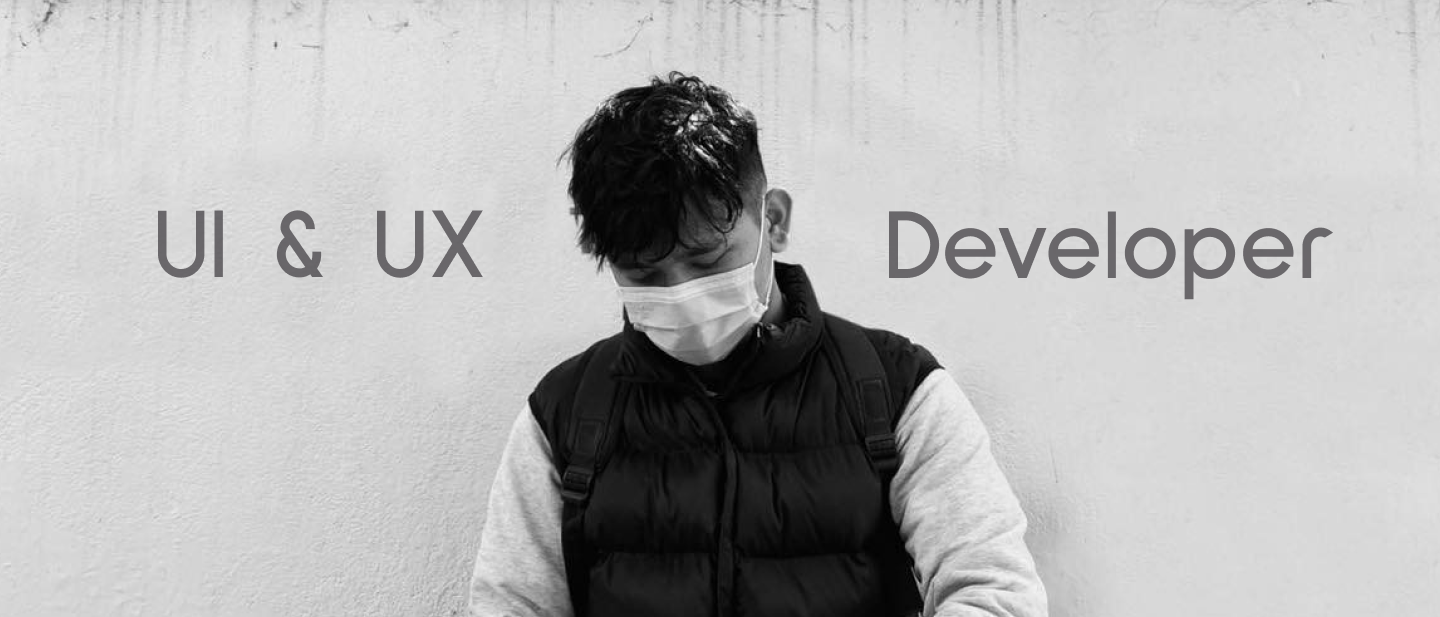
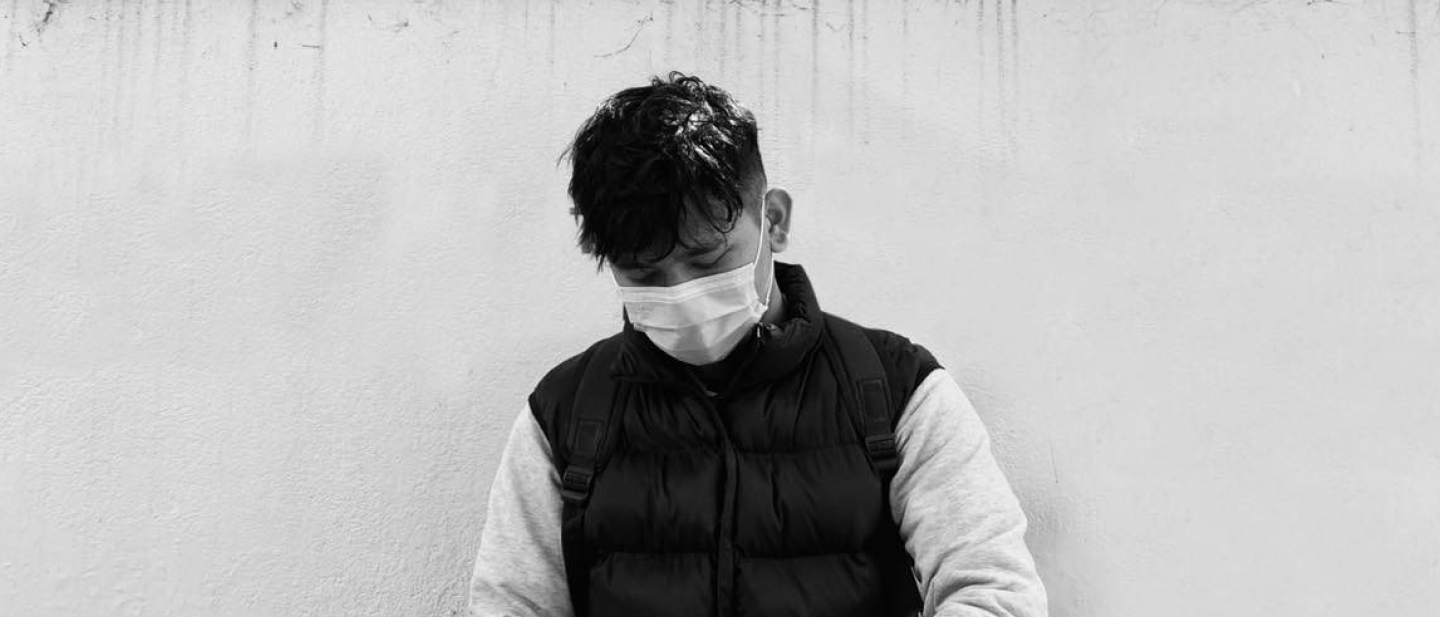
Portfolio

diff --git a/index.html b/index.html
@@ -34,19 +34,55 @@
         </div>
 
         <div class="section">
-            <!-- <div class="uiux">
+            <div class="uiux">
                 UI & UX
-            </div>    -->
+            </div>   
             
-            <!-- <div class="Developer">Developer</div> -->
+            <div class="Developer">
+                Developer
+            </div>
+        
         </div>
 
+        <div class="footer">
 
+            <div class="icon" id="">
+                <svg class="i" viewBox="0 0 46 44" fill="none" xmlns="http://www.w3.org/2000/svg" >
+                    <mask id="path-1-inside-1_11_8" fill="white">
+                    <path d="M22.9266 10C26.2433 10 29.4241 11.2643 31.7693 13.5147C34.1145 15.7652 35.432 18.8174 35.432 22C35.432 26.44 32.9101 30.32 29.1793 32.4V36C29.1793 36.5304 28.9597 37.0391 28.5689 37.4142C28.178 37.7893 27.6479 38 27.0951 38H18.7581C18.2054 38 17.6752 37.7893 17.2844 37.4142C16.8935 37.0391 16.6739 36.5304 16.6739 36V32.4C12.9431 30.32 10.4212 26.44 10.4212 22C10.4212 18.8174 11.7387 15.7652 14.0839 13.5147C16.4292 11.2643 19.61 10 22.9266 10ZM27.0951 40V42C27.0951 42.5304 26.8755 43.0391 26.4846 43.4142C26.0938 43.7893 25.5636 44 25.0109 44H20.8424C20.2896 44 19.7595 43.7893 19.3686 43.4142C18.9777 43.0391 18.7581 42.5304 18.7581 42V40H27.0951ZM39.6005 20H45.8532V24H39.6005V20ZM0 20H6.25271V24H0V20ZM25.0109 0V6H20.8424V0H25.0109ZM8.17021 5L12.6096 9.28L9.65002 12.1L5.21059 7.86L8.17021 5ZM33.2436 9.26L37.6622 5L40.6426 7.86L36.2032 12.1L33.2436 9.26Z"/>
+                    </mask>
+                    <path d="M22.9266 10C26.2433 10 29.4241 11.2643 31.7693 13.5147C34.1145 15.7652 35.432 18.8174 35.432 22C35.432 26.44 32.9101 30.32 29.1793 32.4V36C29.1793 36.5304 28.9597 37.0391 28.5689 37.4142C28.178 37.7893 27.6479 38 27.0951 38H18.7581C18.2054 38 17.6752 37.7893 17.2844 37.4142C16.8935 37.0391 16.6739 36.5304 16.6739 36V32.4C12.9431 30.32 10.4212 26.44 10.4212 22C10.4212 18.8174 11.7387 15.7652 14.0839 13.5147C16.4292 11.2643 19.61 10 22.9266 10ZM27.0951 40V42C27.0951 42.5304 26.8755 43.0391 26.4846 43.4142C26.0938 43.7893 25.5636 44 25.0109 44H20.8424C20.2896 44 19.7595 43.7893 19.3686 43.4142C18.9777 43.0391 18.7581 42.5304 18.7581 42V40H27.0951ZM39.6005 20H45.8532V24H39.6005V20ZM0 20H6.25271V24H0V20ZM25.0109 0V6H20.8424V0H25.0109ZM8.17021 5L12.6096 9.28L9.65002 12.1L5.21059 7.86L8.17021 5ZM33.2436 9.26L37.6622 5L40.6426 7.86L36.2032 12.1L33.2436 9.26Z" fill="white"/>
+                    <path d="M29.1793 32.4L28.6924 31.5266L28.1793 31.8126V32.4H29.1793ZM16.6739 32.4H17.6739V31.8126L17.1609 31.5266L16.6739 32.4ZM10.4212 22H9.42119H10.4212ZM27.0951 40H28.0951V39H27.0951V40ZM18.7581 40V39H17.7581V40H18.7581ZM39.6005 20V19H38.6005V20H39.6005ZM45.8532 20H46.8532V19H45.8532V20ZM45.8532 24V25H46.8532V24H45.8532ZM39.6005 24H38.6005V25H39.6005V24ZM0 20V19H-1V20H0ZM6.25271 20H7.25271V19H6.25271V20ZM6.25271 24V25H7.25271V24H6.25271ZM0 24H-1V25H0V24ZM25.0109 0H26.0109V-1H25.0109V0ZM25.0109 6V7H26.0109V6H25.0109ZM20.8424 6H19.8424V7H20.8424V6ZM20.8424 0V-1H19.8424V0H20.8424ZM8.17021 5L8.86427 4.28008L8.1694 3.61017L7.47531 4.28089L8.17021 5ZM12.6096 9.28L13.2995 10.004L14.0548 9.28424L13.3037 8.56008L12.6096 9.28ZM9.65002 12.1L8.95934 12.8232L9.64921 13.482L10.3398 12.824L9.65002 12.1ZM5.21059 7.86L4.51569 7.14089L3.76717 7.86423L4.51992 8.58316L5.21059 7.86ZM33.2436 9.26L32.5495 8.54009L31.8011 9.2617L32.5512 9.98154L33.2436 9.26ZM37.6622 5L38.3546 4.27846L37.6605 3.61251L36.9681 4.28009L37.6622 5ZM40.6426 7.86L41.3333 8.58316L42.0887 7.8617L41.335 7.13846L40.6426 7.86ZM36.2032 12.1L35.5108 12.8215L36.2016 13.4844L36.8939 12.8232L36.2032 12.1ZM22.9266 11C25.9911 11 28.9221 12.1685 31.0769 14.2363L32.4617 12.7932C29.926 10.36 26.4955 9 22.9266 9V11ZM31.0769 14.2363C33.2303 16.3026 34.432 19.0962 34.432 22H36.432C36.432 18.5386 34.9987 15.2277 32.4617 12.7932L31.0769 14.2363ZM34.432 22C34.432 26.0471 32.1338 29.6079 28.6924 31.5266L29.6663 33.2734C33.6865 31.0321 36.432 26.8329 36.432 22H34.432ZM28.1793 32.4V36H30.1793V32.4H28.1793ZM28.1793 36C28.1793 36.2516 28.0756 36.5017 27.8765 36.6927L29.2612 38.1358C29.8439 37.5766 30.1793 36.8093 30.1793 36H28.1793ZM27.8765 36.6927C27.676 36.885 27.3957 37 27.0951 37V39C27.9001 39 28.68 38.6935 29.2612 38.1358L27.8765 36.6927ZM27.0951 37H18.7581V39H27.0951V37ZM18.7581 37C18.4576 37 18.1772 36.885 17.9767 36.6927L16.592 38.1358C17.1733 38.6935 17.9532 39 18.7581 39V37ZM17.9767 36.6927C17.7777 36.5017 17.6739 36.2516 17.6739 36H15.6739C15.6739 36.8093 16.0093 37.5766 16.592 38.1358L17.9767 36.6927ZM17.6739 36V32.4H15.6739V36H17.6739ZM17.1609 31.5266C13.7195 29.6079 11.4212 26.0471 11.4212 22H9.42119C9.42119 26.8329 12.1668 31.0321 16.1869 33.2734L17.1609 31.5266ZM11.4212 22C11.4212 19.0962 12.6229 16.3026 14.7763 14.2363L13.3916 12.7932C10.8545 15.2277 9.42119 18.5386 9.42119 22H11.4212ZM14.7763 14.2363C16.9311 12.1685 19.8622 11 22.9266 11V9C19.3578 9 15.9272 10.36 13.3916 12.7932L14.7763 14.2363ZM26.0951 40V42H28.0951V40H26.0951ZM26.0951 42C26.0951 42.2516 25.9913 42.5017 25.7923 42.6927L27.177 44.1358C27.7597 43.5766 28.0951 42.8093 28.0951 42H26.0951ZM25.7923 42.6927C25.5918 42.885 25.3114 43 25.0109 43V45C25.8158 45 26.5957 44.6935 27.177 44.1358L25.7923 42.6927ZM25.0109 43H20.8424V45H25.0109V43ZM20.8424 43C20.5418 43 20.2614 42.885 20.061 42.6927L18.6762 44.1358C19.2575 44.6935 20.0374 45 20.8424 45V43ZM20.061 42.6927C19.8619 42.5017 19.7581 42.2516 19.7581 42H17.7581C17.7581 42.8093 18.0935 43.5766 18.6762 44.1358L20.061 42.6927ZM19.7581 42V40H17.7581V42H19.7581ZM18.7581 41H27.0951V39H18.7581V41ZM39.6005 21H45.8532V19H39.6005V21ZM44.8532 20V24H46.8532V20H44.8532ZM45.8532 23H39.6005V25H45.8532V23ZM40.6005 24V20H38.6005V24H40.6005ZM0 21H6.25271V19H0V21ZM5.25271 20V24H7.25271V20H5.25271ZM6.25271 23H0V25H6.25271V23ZM1 24V20H-1V24H1ZM24.0109 0V6H26.0109V0H24.0109ZM25.0109 5H20.8424V7H25.0109V5ZM21.8424 6V0H19.8424V6H21.8424ZM20.8424 1H25.0109V-1H20.8424V1ZM7.47615 5.71992L11.9156 9.99992L13.3037 8.56008L8.86427 4.28008L7.47615 5.71992ZM11.9198 8.55602L8.9602 11.376L10.3398 12.824L13.2995 10.004L11.9198 8.55602ZM10.3407 11.3768L5.90127 7.13684L4.51992 8.58316L8.95934 12.8232L10.3407 11.3768ZM5.9055 8.57911L8.86511 5.71911L7.47531 4.28089L4.51569 7.14089L5.9055 8.57911ZM33.9377 9.97991L38.3562 5.71991L36.9681 4.28009L32.5495 8.54009L33.9377 9.97991ZM36.9698 5.72154L39.9503 8.58154L41.335 7.13846L38.3546 4.27846L36.9698 5.72154ZM39.952 7.13684L35.5125 11.3768L36.8939 12.8232L41.3333 8.58316L39.952 7.13684ZM36.8956 11.3785L33.936 8.53846L32.5512 9.98154L35.5108 12.8215L36.8956 11.3785Z" fill="black" mask="url(#path-1-inside-1_11_8)"/>
+                </svg>
+                <div class="text">
+                    CREATIVE DEVELOPMENT
+                </div>
+            </div>
+                
+            <div class="icon" id="laptop">
+                <svg class="i" viewBox="0 0 51 30" fill="none" xmlns="http://www.w3.org/2000/svg">
+                    <mask id="path-1-inside-1_11_6" fill="white">
+                    <path d="M8.81632 3.75H42.1641V22.5H8.81632M42.1641 26.25C43.2697 26.25 44.3299 25.8549 45.1117 25.1516C45.8934 24.4484 46.3326 23.4946 46.3326 22.5V3.75C46.3326 1.66875 44.4568 0 42.1641 0H8.81632C6.50282 0 4.64785 1.66875 4.64785 3.75V22.5C4.64785 23.4946 5.08702 24.4484 5.86876 25.1516C6.6505 25.8549 7.71077 26.25 8.81632 26.25H0.47937V30H50.5011V26.25H42.1641Z"/>
+                    </mask>
+                    <path d="M8.81632 3.75H42.1641V22.5H8.81632M42.1641 26.25C43.2697 26.25 44.3299 25.8549 45.1117 25.1516C45.8934 24.4484 46.3326 23.4946 46.3326 22.5V3.75C46.3326 1.66875 44.4568 0 42.1641 0H8.81632C6.50282 0 4.64785 1.66875 4.64785 3.75V22.5C4.64785 23.4946 5.08702 24.4484 5.86876 25.1516C6.6505 25.8549 7.71077 26.25 8.81632 26.25H0.47937V30H50.5011V26.25H42.1641Z" fill="white"/>
+                    <path d="M42.1641 3.75H43.1641V2.75H42.1641V3.75ZM42.1641 22.5V23.5H43.1641V22.5H42.1641ZM4.64785 22.5H3.64785H4.64785ZM0.47937 26.25V25.25H-0.52063V26.25H0.47937ZM0.47937 30H-0.52063V31H0.47937V30ZM50.5011 30V31H51.5011V30H50.5011ZM50.5011 26.25H51.5011V25.25H50.5011V26.25ZM8.81632 4.75H42.1641V2.75H8.81632V4.75ZM41.1641 3.75V22.5H43.1641V3.75H41.1641ZM42.1641 21.5H8.81632V23.5H42.1641V21.5ZM42.1641 27.25C43.5028 27.25 44.8051 26.7726 45.7805 25.8951L44.4429 24.4082C43.8548 24.9372 43.0366 25.25 42.1641 25.25V27.25ZM45.7805 25.8951C46.7594 25.0145 47.3326 23.796 47.3326 22.5H45.3326C45.3326 23.1932 45.0275 23.8823 44.4429 24.4082L45.7805 25.8951ZM47.3326 22.5V3.75H45.3326V22.5H47.3326ZM47.3326 3.75C47.3326 1.01652 44.9035 -1 42.1641 -1V1C44.0101 1 45.3326 2.32098 45.3326 3.75H47.3326ZM42.1641 -1H8.81632V1H42.1641V-1ZM8.81632 -1C6.05267 -1 3.64785 1.01958 3.64785 3.75H5.64785C5.64785 2.31792 6.95296 1 8.81632 1V-1ZM3.64785 3.75V22.5H5.64785V3.75H3.64785ZM3.64785 22.5C3.64785 23.796 4.22105 25.0145 5.19996 25.8951L6.53757 24.4082C5.95299 23.8823 5.64785 23.1932 5.64785 22.5H3.64785ZM5.19996 25.8951C6.17538 26.7726 7.4777 27.25 8.81632 27.25V25.25C7.94385 25.25 7.12563 24.9372 6.53757 24.4082L5.19996 25.8951ZM8.81632 25.25H0.47937V27.25H8.81632V25.25ZM-0.52063 26.25V30H1.47937V26.25H-0.52063ZM0.47937 31H50.5011V29H0.47937V31ZM51.5011 30V26.25H49.5011V30H51.5011ZM50.5011 25.25H42.1641V27.25H50.5011V25.25Z" fill="black" mask="url(#path-1-inside-1_11_6)"/>
+                </svg>
+                
+                <div class="text">
+                    FRONT END    
+                </div>        
+            </div>
 
-
-
-
-        <div class="footer"></div>
+            <div class="icon">
+                <svg class="i" viewBox="0 0 27 37" fill="none" xmlns="http://www.w3.org/2000/svg">
+                    <path d="M17.3276 14.3891L17.7867 14.5873L17.3276 14.3891C17.1144 14.8831 16.8013 15.3333 16.4051 15.7135C16.0089 16.0937 15.5374 16.3963 15.017 16.6031C14.4966 16.81 13.9382 16.9167 13.3739 16.9167C12.2332 16.9167 11.1432 16.4817 10.3426 15.7135C9.5428 14.946 9.09748 13.9095 9.09748 12.8333C9.09748 11.7572 9.5428 10.7207 10.3426 9.9532C11.1432 9.18501 12.2332 8.75 13.3739 8.75C14.5145 8.75 15.6045 9.18501 16.4051 9.9532C17.2049 10.7207 17.6502 11.7572 17.6502 12.8333C17.6502 13.3666 17.5408 13.8952 17.3276 14.3891ZM12.9789 30.9417L13.3739 31.4502L13.7688 30.9417C18.5564 24.7763 20.9719 20.7479 22.1893 18.0118C23.418 15.2505 23.4266 13.8032 23.4266 12.8333C23.4266 10.2628 22.3623 7.80186 20.4749 5.99075C18.5882 4.18031 16.0335 3.16667 13.3739 3.16667C10.7142 3.16667 8.15954 4.18031 6.27285 5.99075C4.38546 7.80186 3.3211 10.2628 3.3211 12.8333C3.3211 13.8032 3.32967 15.2505 4.55838 18.0118C5.77586 20.7479 8.19128 24.7763 12.9789 30.9417ZM13.3739 0.5C16.7947 0.5 20.0715 1.8042 22.4844 4.11957C24.8966 6.43425 26.2477 9.56914 26.2477 12.8333C26.2477 15.1342 25.4453 17.7496 24.205 20.4063C22.9679 23.056 21.3137 25.7081 19.6518 28.0718C17.9909 30.434 16.3289 32.4988 15.0818 33.9733C14.4584 34.7103 13.9393 35.2992 13.5765 35.7033C13.5022 35.786 13.4345 35.8609 13.3739 35.9278C13.3132 35.8609 13.2455 35.786 13.1713 35.7033C12.8084 35.2992 12.2893 34.7103 11.666 33.9733C10.4188 32.4988 8.75684 30.434 7.09595 28.0718C5.43401 25.7081 3.7798 23.056 2.54272 20.4063C1.30239 17.7496 0.5 15.1342 0.5 12.8333C0.5 9.56914 1.85112 6.43425 4.2633 4.11957C6.67618 1.8042 9.953 0.5 13.3739 0.5Z" fill="white" stroke="black"/>
+                </svg>
+                
+                <div class="text">
+                    KATHMANDU    
+                </div>          
+            </div>
+        </div>
 
 
     </div>

diff --git a/style.css b/style.css
@@ -1,5 +1,8 @@
 @import url('https://fonts.googleapis.com/css2?family=Square+Peg&display=swap');
 @import url('https://fonts.googleapis.com/css2?family=Sulphur+Point&display=swap');
+@import url('https://fonts.googleapis.com/css2?family=Khand:wght@300&display=swap');
+@import url('https://fonts.googleapis.com/css2?family=Khand:wght@300&display=swap');
+
 *{
     margin: 0px;
     padding: 0px;
@@ -15,6 +18,7 @@
 .header{
     height: 197px;
     display: flex;
+    justify-content: space-between;
     /* flex-direction: row; */
 }
 
@@ -25,28 +29,35 @@
     padding-left: 123px;
     padding-top: 47px;
     width: 50%;
-    /* border: 1px solid whitesmoke; */
+    text-shadow: 2px 2px;
+    opacity: 0.8;
+    
 }
 
 .buttons{
+
     display: flex;
     justify-content: space-between;
     align-items: center;
-
+    margin-right: 30px;
+    flex-direction: row;
+    
 }
 
 button{
     /* width: 166.78;
     height: 72.49; */
+    font-family: 'Khand', sans-serif;
     margin-left: 46px;
     text-align: center;
     padding: 20px 40px;
     border-radius: 10px;
     border:0px;
     background-color: #534b52;
-    font-size: 16px;
+    font-size: 23px;
     color: #F4F4F4;
     cursor: pointer;
+    
     
 }
 
@@ -60,6 +71,7 @@ button{
     display: flex;
     background-position: cover;
     background-size: cover;
+    justify-content: space-between;
 }
 #img{
     max-width:100%;
@@ -73,17 +85,49 @@ button{
     font-weight: bold;
     opacity: 0.6;
     padding-left: 123px;
+    display: flex;
+    justify-content: center;
+    align-items: center;
+
 }
 .Developer{
     font-family: 'Sulphur Point', sans-serif;
     font-size: 100px;
     font-weight: bold;
     opacity: 0.6;
+    display: flex;
+    justify-content: center;
+    align-items: center;
 }
 
 .section{
     display: flex;
 }
-/* .footer{
+
+.footer{
     height:211px;
-} */
+    background-color: #59575a;
+    font-family: 'Khand', sans-serif;
+    display: flex;
+    flex-direction: row;
+    justify-content: space-between;
+    align-items: center;
+    padding:100px;
+    font-size: 25px;
+}
+
+.icon{
+    display: flex;
+    color: #F4F4F4;
+    justify-content: center;
+    align-items: center;
+    flex-direction: column;   
+    line-height: 40px;
+}
+.i{
+    width: 50px;
+    height: 30px;
+}
+.text{
+    opacity: 0.8;
+}
